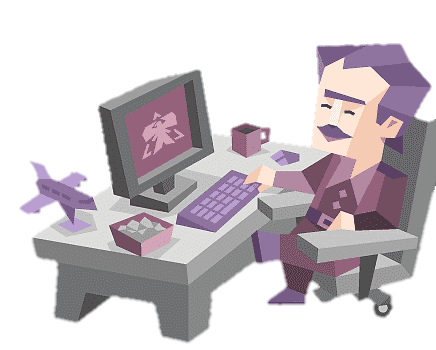
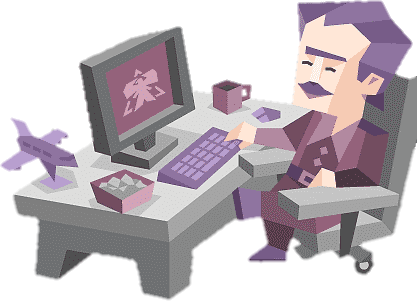
image bug and svg fill-rule

diff --git a/src/components/icons/BoxArrowUp.tsx b/src/components/icons/BoxArrowUp.tsx
@@ -13,11 +13,11 @@ export const BoxArrowUp: React.FC<Props> = ({ className }) => {
       className={`${className ? className : ""} bi bi-box-arrow-up-right`}
     >
       <path
-        fill-rule="evenodd"
+        fillRule="evenodd"
         d="M8.636 3.5a.5.5 0 0 0-.5-.5H1.5A1.5 1.5 0 0 0 0 4.5v10A1.5 1.5 0 0 0 1.5 16h10a1.5 1.5 0 0 0 1.5-1.5V7.864a.5.5 0 0 0-1 0V14.5a.5.5 0 0 1-.5.5h-10a.5.5 0 0 1-.5-.5v-10a.5.5 0 0 1 .5-.5h6.636a.5.5 0 0 0 .5-.5z"
       />
       <path
-        fill-rule="evenodd"
+        fillRule="evenodd"
         d="M16 .5a.5.5 0 0 0-.5-.5h-5a.5.5 0 0 0 0 1h3.793L6.146 9.146a.5.5 0 1 0 .708.708L15 1.707V5.5a.5.5 0 0 0 1 0v-5z"
       />
     </svg>

diff --git a/src/pages/index.tsx b/src/pages/index.tsx
@@ -4,6 +4,8 @@ import { BoxArrowUp } from "~/components/icons";
 import { Button } from "~/components/ui";
 import { Layout } from "~/layouts";
 
+import intjImage from "../../public/images/intj.png";
+
 const Home: NextPage = () => {
   return (
     <Layout>
@@ -38,11 +40,9 @@ const Home: NextPage = () => {
         </div>
 
         <Image
-          src="/images/intj.png"
+          src={intjImage}
           alt="intj-person"
-          width={220}
-          height={220}
-          className="absolute bottom-4 right-8 -z-10 hidden sm:block"
+          className="absolute bottom-4 right-8 -z-10 hidden w-52 sm:block"
         />
       </section>
     </Layout>

diff --git a/src/styles/globals.css b/src/styles/globals.css
@@ -4,7 +4,7 @@
 
 @layer base {
   :root {
-    --background: 224 71% 4%; /* 224 71% 4% // 0 0% 11% */
+    --background: 224 71% 6%; /* 224 71% 4% // 0 0% 11% */
     --foreground: 213 31% 91%;
 
     --muted: 223 47% 11%;
